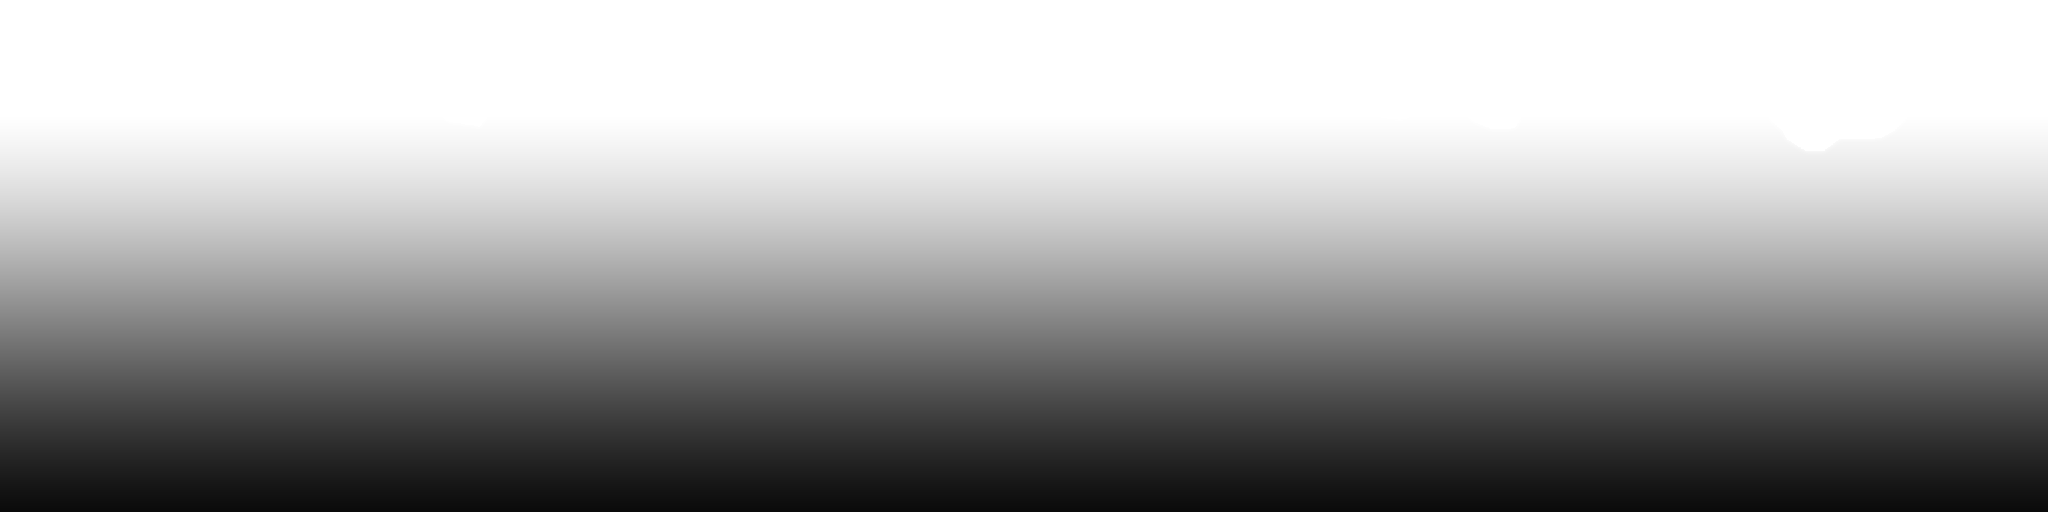
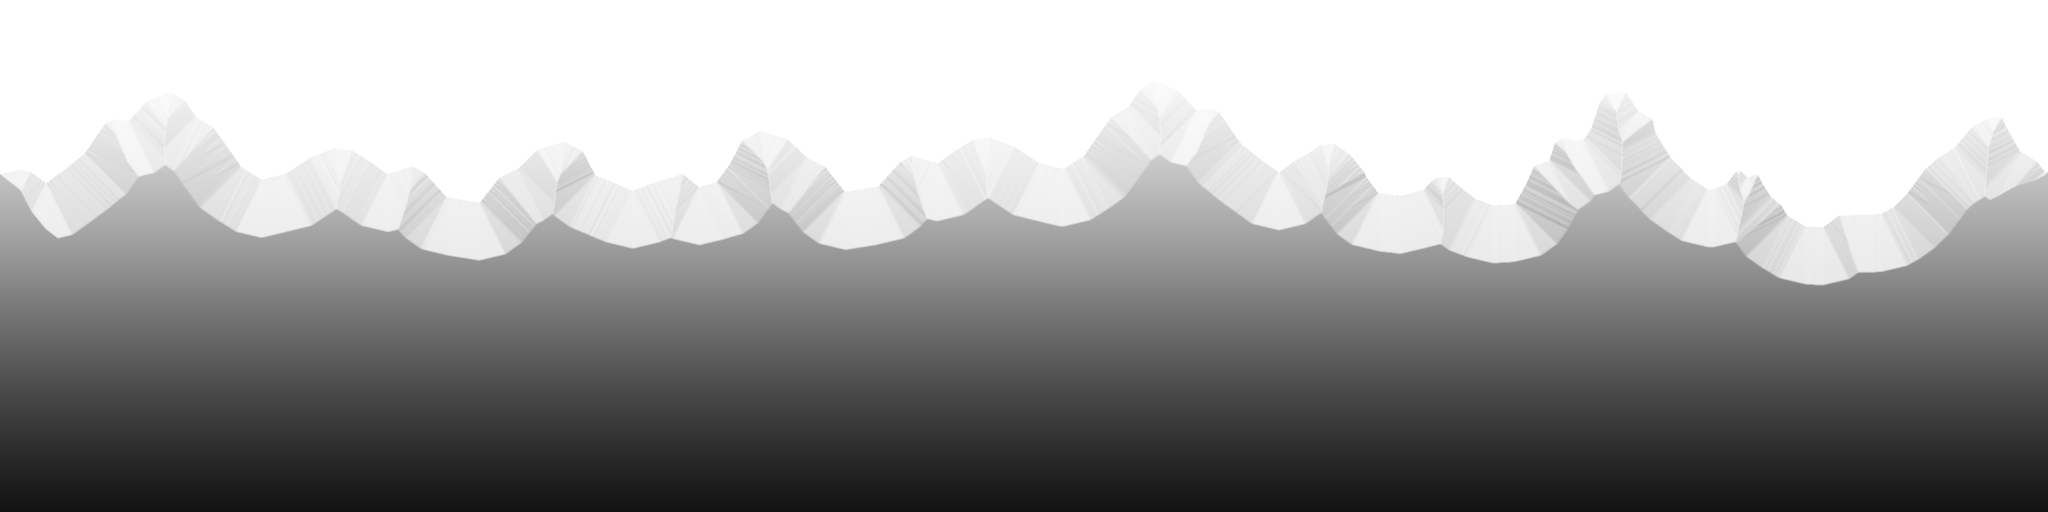
playing around with the “dynamic” texture.  changed color of hills to RGB each to show that the blending was working

Changed region(s): [[0.0, 0.2812, 1.0, 0.5625], [0.7812, 0.2188, 0.8125, 0.2812], [0.75, 0.2812, 0.7812, 0.3438]]

diff --git a/parallax test/HelloWorldScene.m b/parallax test/HelloWorldScene.m
@@ -11,9 +11,9 @@
 #define MID_RATIO 0.20f
 #define FAR_RATIO 0.10f
 
-#define NEAR_DEFAULT_Y 400.0
-#define MID_DEFAULT_Y 300.0
-#define FAR_DEFAULT_Y 200.0
+#define NEAR_DEFAULT_Y 300.0
+#define MID_DEFAULT_Y 200.0
+#define FAR_DEFAULT_Y 100.0
 
 
 #import "HelloWorldScene.h"
@@ -80,13 +80,13 @@
 	background.shaderUniforms[@"u_layer3Coord"] = [NSValue valueWithGLKVector2:layer3Pos];
 	background.shaderUniforms[@"u_scaleRatio"] = [NSValue valueWithGLKVector2:scaleRatio];
 
-	background.shaderUniforms[@"u_farColor"] = [NSValue valueWithGLKVector3:GLKVector3Make(0.3294, 0.4824, 0.6941)];
-	background.shaderUniforms[@"u_midColor"] = [NSValue valueWithGLKVector3:GLKVector3Make(0.4300, 0.5600, 0.7300)];
-	background.shaderUniforms[@"u_nearColor"] = [NSValue valueWithGLKVector3:GLKVector3Make(0.5412, 0.6471, 0.7922)];
+//	background.shaderUniforms[@"u_farColor"] = [NSValue valueWithGLKVector3:GLKVector3Make(0.3294, 0.4824, 0.6941)];
+//	background.shaderUniforms[@"u_midColor"] = [NSValue valueWithGLKVector3:GLKVector3Make(0.4300, 0.5600, 0.7300)];
+//	background.shaderUniforms[@"u_nearColor"] = [NSValue valueWithGLKVector3:GLKVector3Make(0.5412, 0.6471, 0.7922)];
 
-//	background.shaderUniforms[@"u_midColor"] = [NSValue valueWithGLKVector3:GLKVector3Make(1.0, 0.0, 0.0)];
-//	background.shaderUniforms[@"u_nearColor"] = [NSValue valueWithGLKVector3:GLKVector3Make(0.0, 1.0, 0.0)];
-//	background.shaderUniforms[@"u_farColor"] = [NSValue valueWithGLKVector3:GLKVector3Make(0.0, 0.0, 1.0)];
+	background.shaderUniforms[@"u_midColor"] = [NSValue valueWithGLKVector3:GLKVector3Make(1.0, 0.0, 0.0)];
+	background.shaderUniforms[@"u_nearColor"] = [NSValue valueWithGLKVector3:GLKVector3Make(0.0, 1.0, 0.0)];
+	background.shaderUniforms[@"u_farColor"] = [NSValue valueWithGLKVector3:GLKVector3Make(0.0, 0.0, 1.0)];
 
 	CCLOG(@"scaleRatio: %f , %f",scaleRatio.x,scaleRatio.y);
 	CCLOG(@"samplerSize: %f , %f",samplerSize.width,samplerSize.height);
